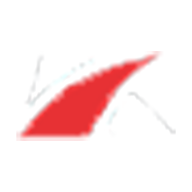
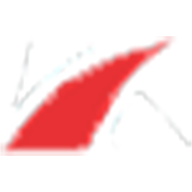
修改icon

diff --git a/KStudio/Form1.Designer.cs b/KStudio/Form1.Designer.cs
@@ -28,6 +28,7 @@
         /// </summary>
         private void InitializeComponent()
         {
+            System.ComponentModel.ComponentResourceManager resources = new System.ComponentModel.ComponentResourceManager(typeof(Form1));
             this.webView21 = new Microsoft.Web.WebView2.WinForms.WebView2();
             ((System.ComponentModel.ISupportInitialize)(this.webView21)).BeginInit();
             this.SuspendLayout();
@@ -50,6 +51,7 @@
             this.AutoScaleMode = System.Windows.Forms.AutoScaleMode.Font;
             this.ClientSize = new System.Drawing.Size(800, 450);
             this.Controls.Add(this.webView21);
+            this.Icon = ((System.Drawing.Icon)(resources.GetObject("$this.Icon")));
             this.Name = "Form1";
             this.StartPosition = System.Windows.Forms.FormStartPosition.CenterScreen;
             this.Text = "KStudio";
